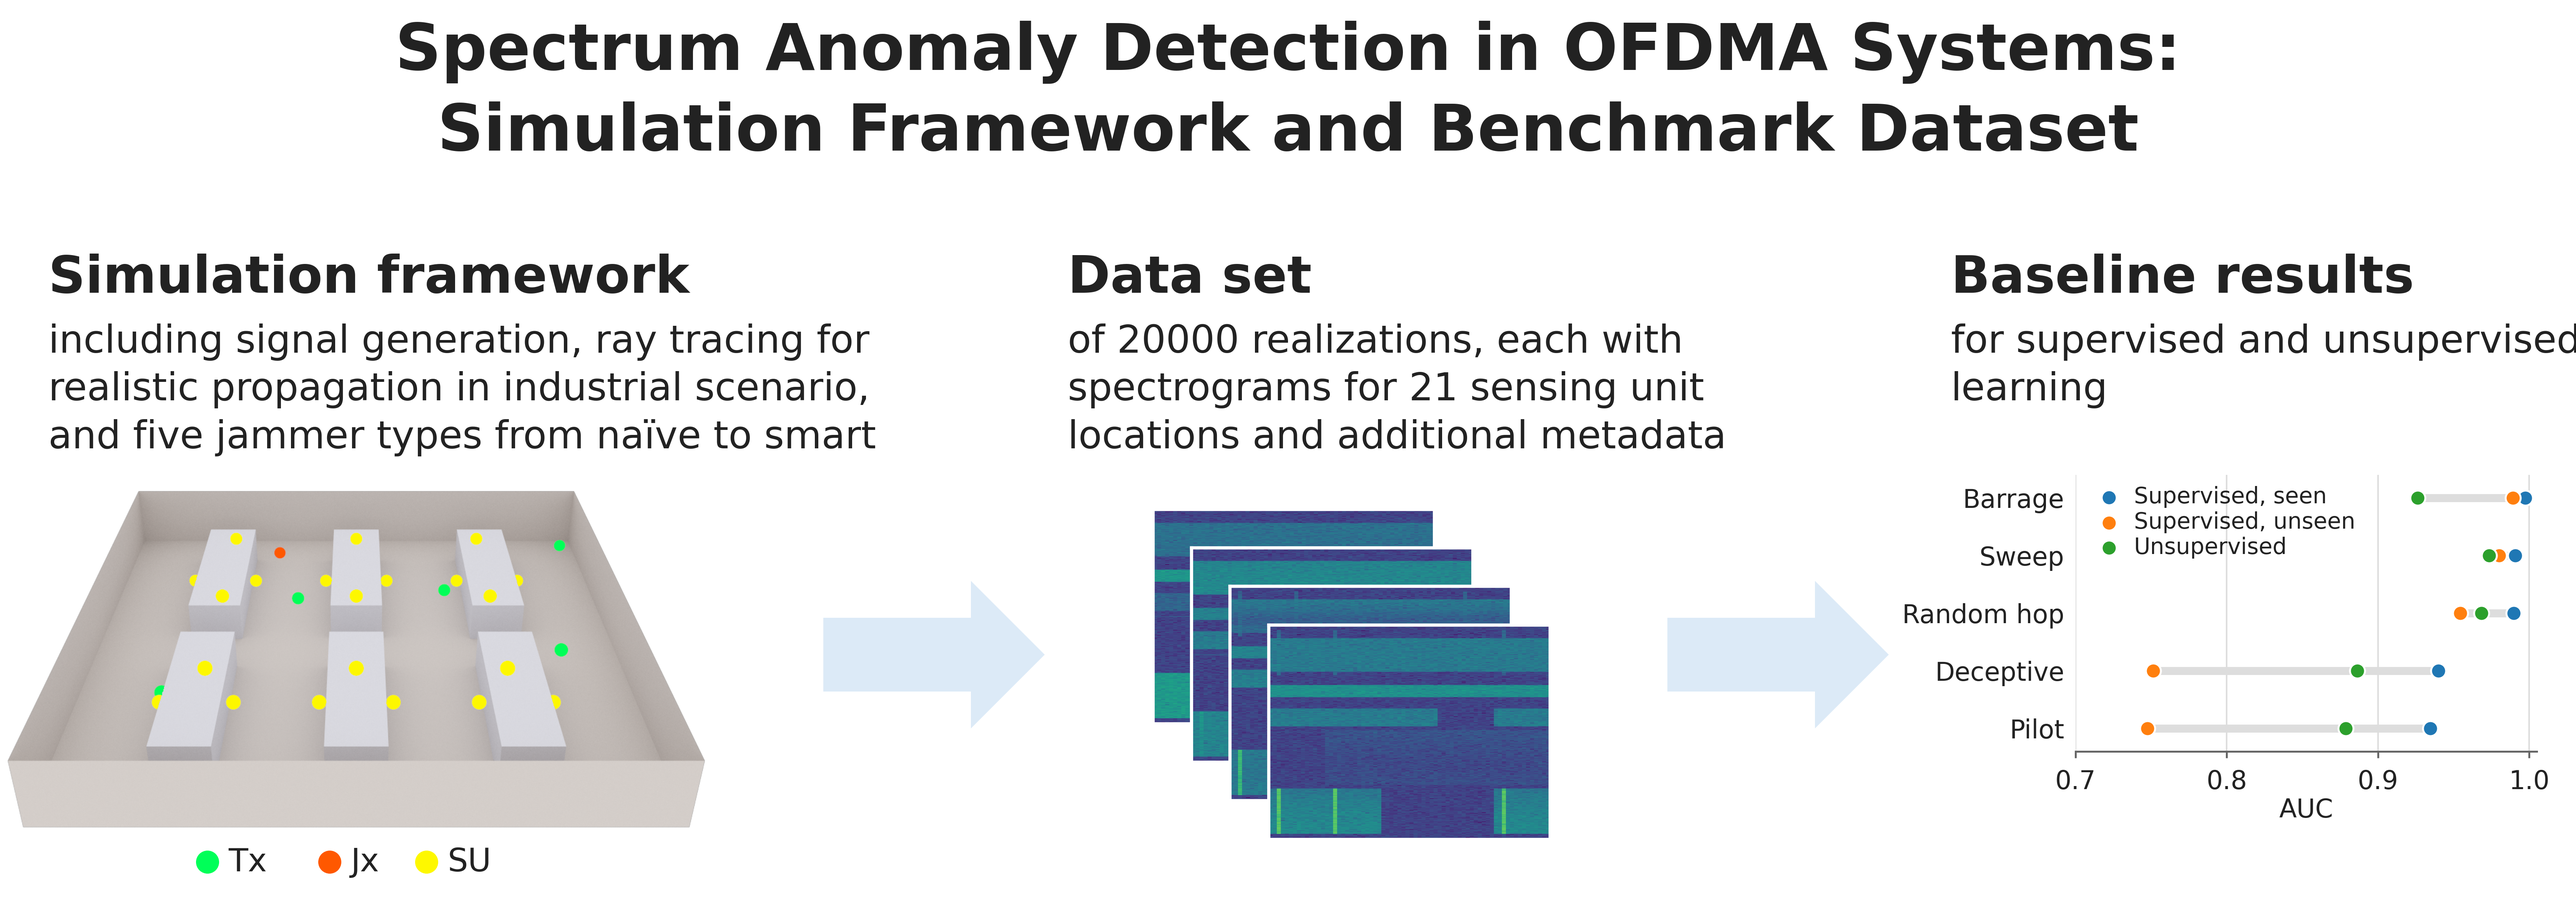
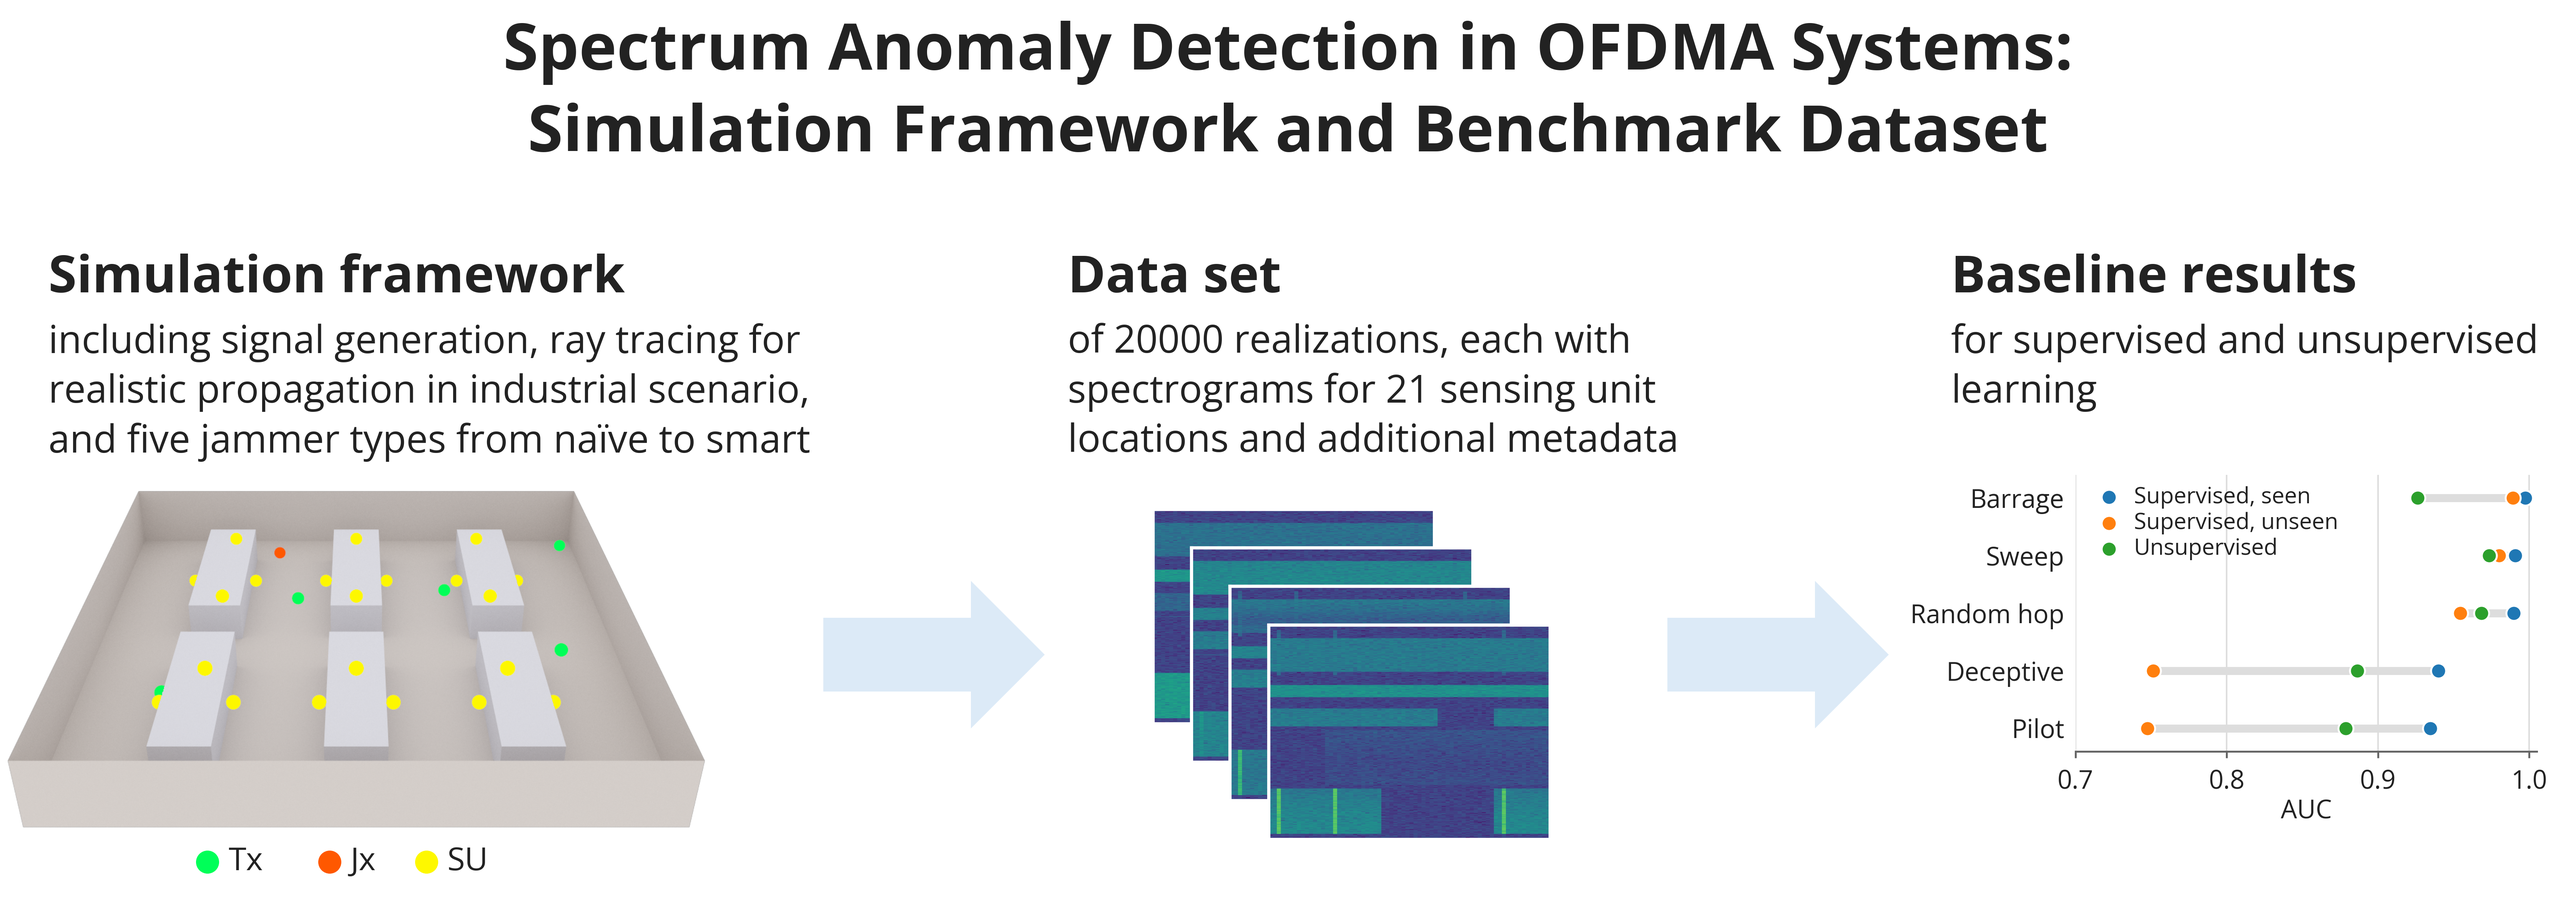
fix graphical abstract: render with Open Sans, no clipping with fallback font
The figures of v2.0.1 were generated with the fallback font DejaVu Sans, which
is wider than Open Sans, so the text of the right column was clipped. The
figures are now regenerated with Open Sans. If the fallback font is used, the
abstract is extended where content would be clipped; with Open Sans the output
is unchanged.

diff --git a/src/plot_graphical_abstract.py b/src/plot_graphical_abstract.py
@@ -16,7 +16,8 @@ The layout follows the original PowerPoint slide; all positions are given in
 inches from the top left corner of the abstract. The slide font is Open Sans;
 if it is not installed, it can be passed with ``--font-dir`` (a folder with,
 e.g., ``OpenSans-Regular.ttf`` and ``OpenSans-Bold.ttf``), otherwise DejaVu Sans
-is used.
+is used. As the fallback font is wider, the abstract is then extended where the
+text would be clipped otherwise.
 
 Usage: ``python src/plot_graphical_abstract.py [-d DATASET_NUMBER] [--font-dir DIR]``
 """
@@ -33,6 +34,7 @@ import matplotlib.font_manager as fm
 import matplotlib.pyplot as plt
 import numpy as np
 from matplotlib.patches import Circle, Polygon
+from matplotlib.transforms import Bbox
 from PIL import Image
 
 # import own modules
@@ -134,6 +136,8 @@ METHODS = {
 AUC_LIM = (0.7, 1.005)
 
 PNG_DPI = 600
+# space added beyond content that exceeds the abstract (e.g., with a fallback font)
+OVERFLOW_MARGIN = 0.1
 
 
 def setup_font(font_dir=None):
@@ -415,6 +419,37 @@ def draw_auc(fig):
     )
 
 
+def content_bbox(fig):
+    """Area of the abstract to save, extended where the content exceeds it.
+
+    With a fallback font, the text is wider than with Open Sans and can exceed
+    the abstract. Instead of clipping it, the abstract is extended on that side
+    by the overflow plus `OVERFLOW_MARGIN`. Sides without overflow are kept, so
+    the abstract is unchanged if everything fits.
+
+    Parameters
+    ----------
+    fig : matplotlib.figure.Figure
+        The abstract, completely drawn.
+
+    Returns
+    -------
+    bbox : matplotlib.transforms.Bbox
+        Area to save in inches, measured from the bottom left corner.
+    """
+    content = fig.get_tightbbox(fig.canvas.get_renderer())
+    x0 = 0 if content.x0 >= 0 else content.x0 - OVERFLOW_MARGIN
+    y0 = 0 if content.y0 >= 0 else content.y0 - OVERFLOW_MARGIN
+    x1 = WIDTH if content.x1 <= WIDTH else content.x1 + OVERFLOW_MARGIN
+    y1 = HEIGHT if content.y1 <= HEIGHT else content.y1 + OVERFLOW_MARGIN
+    if (x0, y0, x1, y1) != (0, 0, WIDTH, HEIGHT):
+        print(
+            f"Content exceeds the abstract (font {plt.rcParams['font.family'][0]}), "
+            f"extended to {x1 - x0:.2f} x {y1 - y0:.2f} in"
+        )
+    return Bbox.from_extents(x0, y0, x1, y1)
+
+
 def plot_graphical_abstract(dataset, output_path):
     """Draw the graphical abstract and save it as PDF and PNG.
 
@@ -439,8 +474,9 @@ def plot_graphical_abstract(dataset, output_path):
     draw_auc(fig)
 
     filename = os.path.join(output_path, "graphical_abstract")
-    fig.savefig(filename + ".pdf", dpi=PNG_DPI, metadata=PDF_METADATA)
-    fig.savefig(filename + ".png", dpi=PNG_DPI, facecolor="white")
+    bbox = content_bbox(fig)
+    fig.savefig(filename + ".pdf", dpi=PNG_DPI, metadata=PDF_METADATA, bbox_inches=bbox)
+    fig.savefig(filename + ".png", dpi=PNG_DPI, facecolor="white", bbox_inches=bbox)
     plt.close(fig)
     print(f"Saved {filename}.pdf and .png")
 
